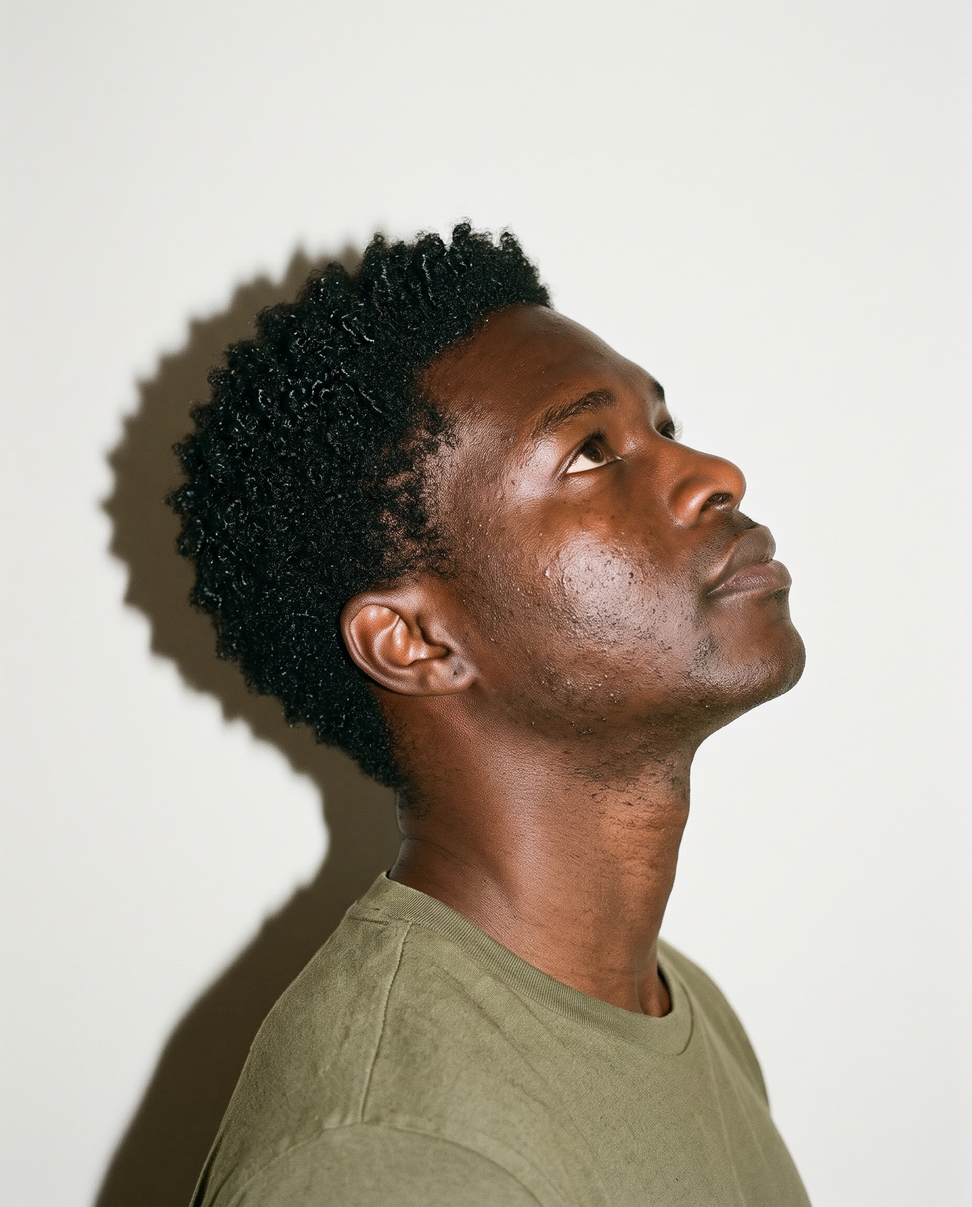
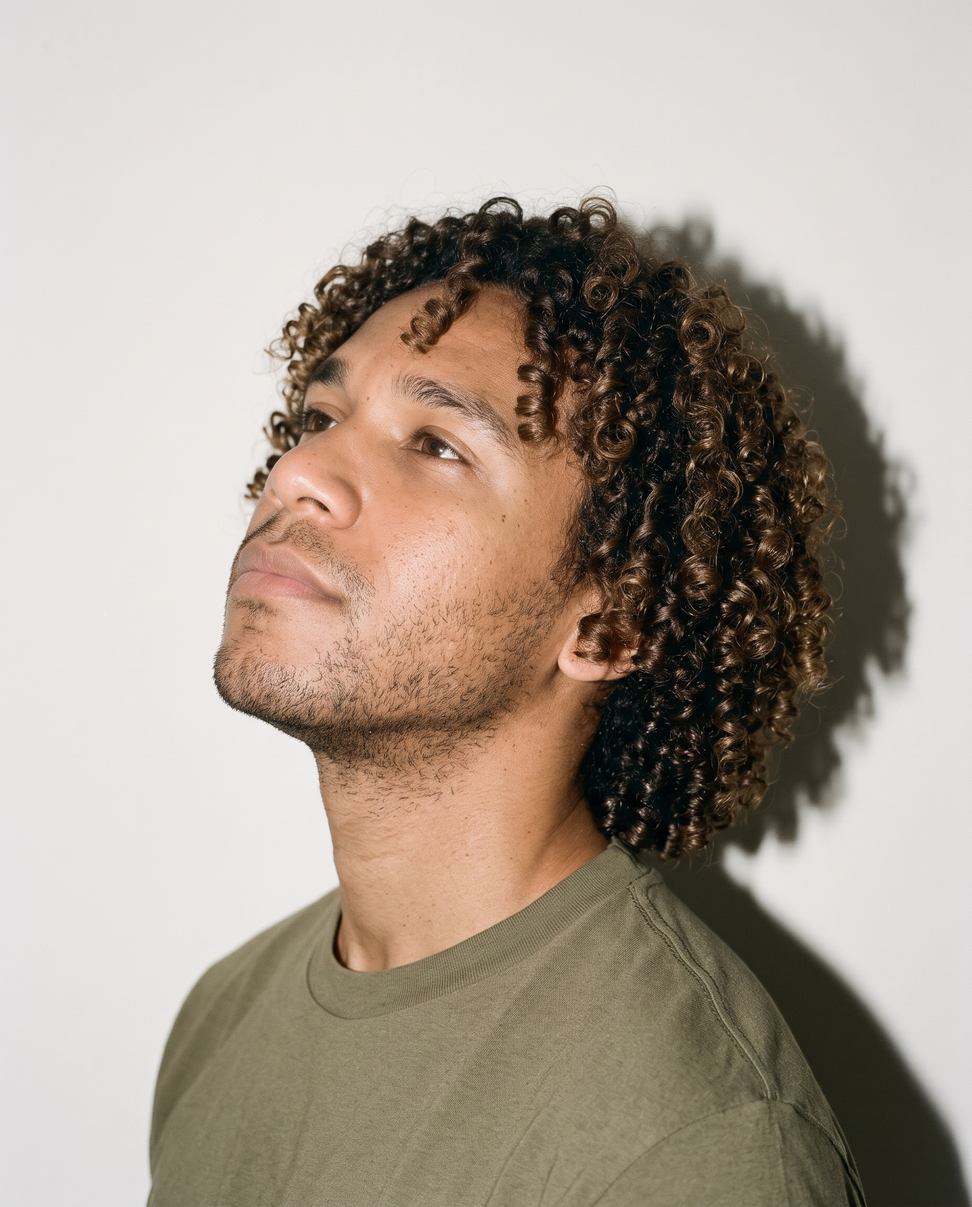
Retratos lookbook do 2B ao 3C com o tipo de cabelo, cartão 2 com homem 3B, origem e ingredientes em still life
- Retratos: 6 pessoas (3 homens, 3 mulheres) em estilo lookbook, cada uma com o tipo de cabelo; sem vídeos
- Cartão "Dura até amanhã": homem 3B em vez de cabelo crespo, coerente com a gama 2A-3C
- Banner da origem e 5 ingredientes: fotos de estúdio em fundo areia, em vez de mãos e agricultora
- Textos alternativos atualizados

Claude-Session: https://claude.ai/code/session_01H9RPN1CBtaHMsUDF5qg26C

diff --git a/assets/ondao-loja.css b/assets/ondao-loja.css
@@ -116,7 +116,9 @@
 .lj-retratos-sec{background:var(--creme)}
 .lj-retratos{display:flex;gap:10px;overflow-x:auto;scroll-snap-type:x mandatory;padding:28px var(--gutter) 0;scrollbar-width:none}
 .lj-retratos::-webkit-scrollbar{display:none}
-.lj-retratos img,.lj-retratos video{flex:0 0 62%;min-width:0;height:auto;aspect-ratio:3/4;object-fit:cover;border-radius:16px;scroll-snap-align:center;background:var(--areia)}
+.lj-retrato{flex:0 0 62%;min-width:0;margin:0;scroll-snap-align:center}
+.lj-retratos img,.lj-retratos video{display:block;width:100%;min-width:0;height:auto;aspect-ratio:3/4;object-fit:cover;border-radius:16px;background:var(--areia)}
+.lj-retrato figcaption{margin-top:10px;text-align:center;font-size:.9rem;color:var(--cinza,#6a625a)}
 
 /* newsletter */
 .lj-news{background:var(--verde-2);color:var(--branco);padding:44px 0}
@@ -147,7 +149,7 @@
   .lj-verde{padding:90px var(--gutter)}
   .lj-banner{min-height:620px}
   .lj-retratos{justify-content:center;overflow:visible;max-width:var(--max);margin:0 auto}
-  .lj-retratos img,.lj-retratos video{flex:1 1 0;min-width:0}
+  .lj-retrato{flex:1 1 0;min-width:0}
   .lj-news{padding:64px 0}
 }
 @media (prefers-reduced-motion:reduce){.lj-btn,.lj-fixa{transition:none}}
